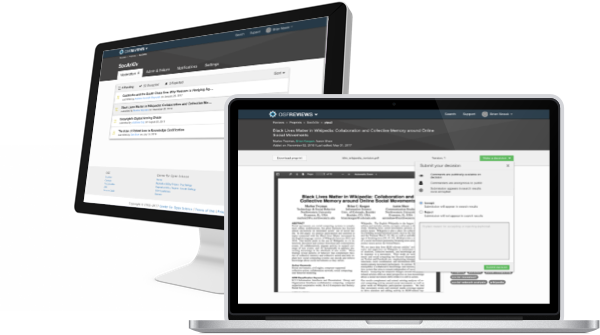
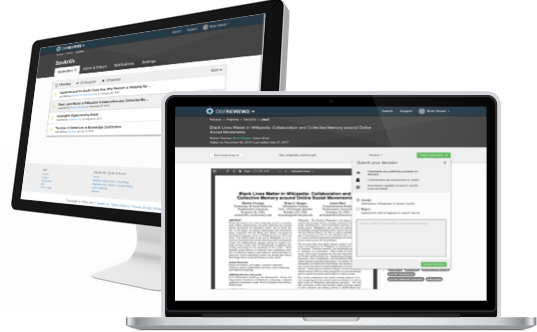
Apply requested changes

diff --git a/app/styles/app.scss b/app/styles/app.scss
@@ -22,7 +22,7 @@
 
 .reviews-brand {
   background: url('img/reviews-logo-beta.png') top center no-repeat;
-  height: 120px;
+  height: 100px;
   background-size: contain;
   padding: 1px;
 }
@@ -78,35 +78,48 @@
   padding-top: 50px;
   padding-bottom: 30px;
   border-bottom: 1px solid #dddddd;
-  color: black;
+  color: #333333;
+  text-align: left;
   h2 {
-    font-size: 20px;
+    font-size: 24px;
     font-weight: bold;
+  }
+  h4 {
+    font-size: 18px;
+  }
+  li {
+    font-weight: bold;
+  }
+  .features {
+    padding-top: 2%;
+    max-width: 500px;
   }
 }
 
 .reviews-middle-features {
-  background: url('img/reviews-screens.png') top center no-repeat;
-  height: 300px;
-  background-size: contain;
+  content: url('img/reviews-screens.png');
+  display: block;
+  position: relative;
+  width: 90%;
 }
 
 .reviews-workflow{
   background: white url('img/reviews-workflow-background.jpg') top center;
-  padding-top: 50px;
-  padding-bottom: 30px;
+  padding-top: 30px;
+  padding-bottom: 10px;
   border-bottom: 1px solid #dddddd;
   color: white;
   h2 {
     font-weight: bold;
-    font-size: 20px;
-  }
-  li {
-    padding: 5px;
-    font-size: 12px;
+    font-size: 24px;
   }
   h4 {
     text-shadow: 2px 2px 4px grey;
+    font-size: 18px;
+    text-align: left;
+  }
+  li {
+    padding-bottom: 20px;
   }
 }
 
@@ -115,27 +128,30 @@
   padding-top: 30px;
   padding-bottom: 30px;
   border-bottom: 1px solid #dddddd;
-  color: black;
+  color: #333333;
   h2 {
-    font-size: 20px;
+    font-size: 24px;
     font-weight: bold;
+  }
+  h4 {
+    font-size: 21px;
   }
 }
 
 .reviews-workflow-figure1 {
-  background-image: url('img/post-moderation-workflow.png');
-  background-position: center;
-  background-repeat: no-repeat;
-  height: 300px;
-  background-size: contain;
+  content: url('img/post-moderation-workflow.png');
+  display: block;
+  position: relative;
+  text-align: center;
+  width: 100%;
 }
 
 .reviews-workflow-figure2 {
-  background-image: url('img/pre-moderation-workflow.png');
-  background-position: center;
-  background-repeat: no-repeat;
-  height: 300px;
-  background-size: contain;
+  content: url('img/pre-moderation-workflow.png');
+  display: block;
+  position: relative;
+  text-align: center;
+  width: 100%;
 }
 
 /* Not found page */
@@ -189,4 +205,8 @@ li.active > a {
   padding: 2px;
   border-radius: 5px;
   font-weight: bold;
+}
+
+.column-offset {
+  height: 120px;
 }

diff --git a/app/index.html b/app/index.html
@@ -11,6 +11,7 @@
 
     <link rel="stylesheet" href="{{rootURL}}assets/vendor.css">
     <link rel="stylesheet" href="{{rootURL}}assets/reviews-service.css">
+    <link href='https://fonts.googleapis.com/css?family=Open+Sans:400,600,300,700' rel='stylesheet' type='text/css'>
 
     {{content-for "head-footer"}}
   </head>
